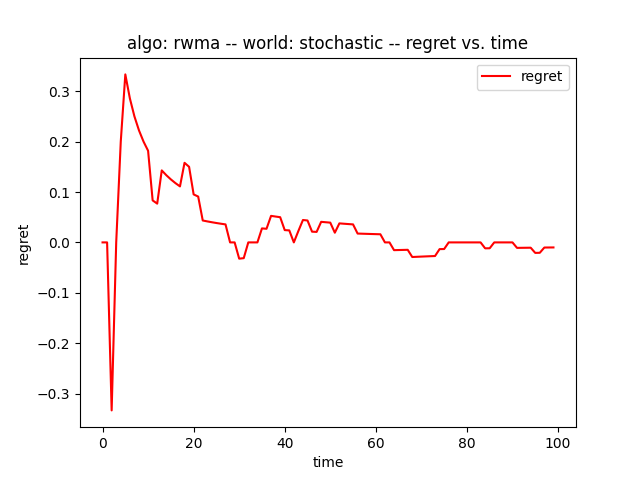
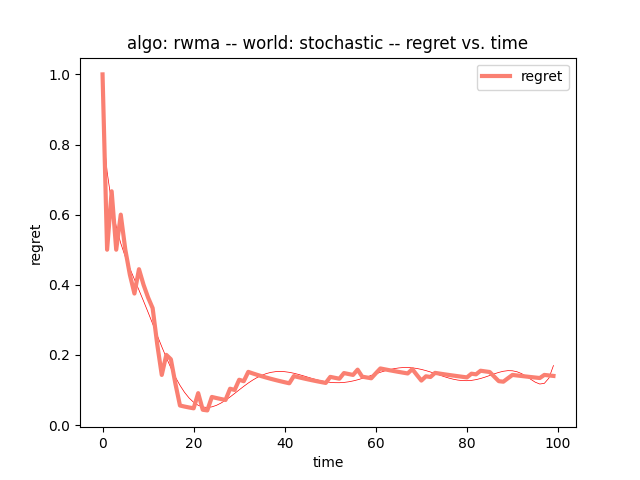
doc: 3.3

diff --git a/hw1/wma.py b/hw1/wma.py
@@ -1,12 +1,13 @@
 # ------------------------------------------------------------------------------
 # @file: wma.py
 # @date: Feb 17, 2021
+# @author: Ingrid Navarro
+#
 # @brief: Implementation of the Weighted Majority Algorithm
-# @author: ingridn
 # ------------------------------------------------------------------------------
 import numpy as np
 
-from world import (
+from environment import (
     Prediction,
     StochasticWorld,
     OddLoseExpert,
@@ -19,11 +20,12 @@ np.set_printoptions(4)
 class WeightedMajorityAlgorithm(object):
 
     def __init__(self, H, world, T: int = 10, eta: float = 0.5):
-        """
-        H: hypothesis class
-        world: environment that provides the true labels
-        T: time steps to run the algorithm
-        eta: penalty parameter
+        """ Initializes the WMA.
+        Args
+            H: hypothesis class
+            world: environment that provides the true labels
+            T: time steps to run the algorithm
+            eta: penalty parameter
         """
         self._H = H
         self._num_experts = len(H)
@@ -33,39 +35,36 @@ class WeightedMajorityAlgorithm(object):
         self.build()
 
     def build(self) -> None:
-        """ 
-        Initializes variables
-        """
+        """ Initializes variables """
         self._weights = np.ones(shape=(self._num_experts), dtype=np.float32)
         self._x = np.zeros(shape=(self._num_experts), dtype=np.int)
-        self._learner_loss = np.zeros(shape=(self._T, 1), dtype=np.float32)
         self._regret = np.zeros(shape=(self._T, 1), dtype=np.float32)
+        self._learner_loss = np.zeros(shape=(self._T, 1), dtype=np.float32)
         self._experts_loss = np.zeros(
             shape=(self._T, self._num_experts), dtype=np.float32)
 
     def receive_advice(self, num_step: int) -> None:
-        """
-        Receives the advice from all the experts
+        """ Receives the advice from all the experts
+        Args
+            num_step: current time step.
         """
         for n in range(self._num_experts):
             self._x[n] = self._H[n].give_advice(num_step)
 
     def receive_label(self) -> int:
-        """
-        Receives true label from the world
-        """
-        # note: if using stochastic, the expert advice is not used by the world
-        return self._world.give_label(self._x)
+        """ Receives true label from the world. """
+        # note: if using stochastic, neither the expert advice nor the weights
+        # are used by the world.
+        return self._world.give_label(self._x, self._weights)
 
-    def pred_function(self, value: float) -> int:
+    def pred_function(self) -> int:
+        """ Prediction rule. In the case of the Weighted Majority algorithm it 
+        is based on the sign(x dot weights). 
         """
-        Prediction rule. In the case of the Weighted Majority algorithm it 
-        computes the sign. 
-        """
+        value = np.dot(self._x, self._weights)
         if value >= 0.0:
             return Prediction.WIN.value
-        else:
-            return Prediction.LOSE.value
+        return Prediction.LOSE.value
 
     def compute_regret(self, t: int) -> None:
         """
@@ -77,45 +76,36 @@ class WeightedMajorityAlgorithm(object):
             self._experts_loss[t:, n] += float(not self._x[n] == self._y_true)
         # self._experts_loss[t:] += np.where(not self._x == self._y_true, self._x, self._y_true)
 
-        self._regret[t] = (self._learner_loss[t] - np.amin(self._experts_loss[t]))/(t+1)
+        self._regret[t] = (self._learner_loss[t] -
+                           np.amin(self._experts_loss[t]))/(t+1)
 
     def run(self):
-        """
-        Runs the algorithm for T time steps. 
-        """
+        """ Runs the algorithm for T time steps. """
         print(f"\tInitial weights: {self._weights}")
         print(f"\tWorld: {self._world.get_name()}")
         for t in range(0, self._T):
             self.receive_advice(t)
-            value = np.dot(self._x, self._weights)
-            self._y_pred = self.pred_function(value)
+            self._y_pred = self.pred_function()
             self._y_true = self.receive_label()
             incorrect_advice = (self._y_true != self._x).astype(int)
             self._weights = self._weights * (1 - self._eta * incorrect_advice)
             self.compute_regret(t)
-
-            if t % 10 == 0:
+                        
+            if t % 5 == 0:
                 print("\t[{}/{}]\n\t\tadvice: {}, y_pred: {}, y_true: {}".format(
                     t, self._T, self._x, self._y_pred, self._y_true))
+                print(f"\t\tincorrect advice: {incorrect_advice}")
                 print(f"\t\tweights: {self._weights}")
                 print(f"\t\tlearner_loss: {self._learner_loss[t]}")
                 print(f"\t\texperts_loss: {self._experts_loss[t]}")
                 print(f"\t\tregret: {self._regret[t]}")
 
+    # Member getters
     def get_learners_loss(self) -> np.array:
-        """
-        Getter function for the learner loss.
-        """
         return self._learner_loss
 
     def get_experts_loss(self) -> np.array:
-        """
-        Getter function for the experts loss.
-        """
         return self._experts_loss
 
     def get_regret(self) -> np.array:
-        """
-        Getter function for the regret
-        """
         return self._regret

diff --git a/hw1/run.py b/hw1/run.py
@@ -1,27 +1,37 @@
 import matplotlib.pyplot as plt
 import numpy as np
+import os
 
 from wma import WeightedMajorityAlgorithm
 from rwma import RandomizedWeightedMajorityAlgorithm
 
-from world import (
+from environment import (
     StochasticWorld, DeterministicWorld, AdversarialWorld,
     OddLoseExpert, OptimisticExpert, NegativeExpert
 )
 
 SUPPORTED_WORLDS = ["stochastic", "deterministic", "adversarial"]
 SUPPORTED_ALGORITHMS = ["wma", "rwma"]
-
+if not os.path.exists("out"):
+    os.makedirs("out")
 
 def plot(x, y1, y1_label, y2=None, y2_label=None, 
          out_file="out.png", title = 'plot', x_axis = 'x', y_axis = 'y'):
-    colors = ['red', 'green', 'blue', 'cyan']
-    
+    colors  = ['salmon', 'limegreen', 'royalblue', 'mediumpurple']
+    icolors = ['red', 'green', 'blue', 'purple']
+
     for n in range(len(y1[1])):
-        plt.plot(x, y1[:, n], color=colors[n], label=y1_label[n])
+        # interpolate to smooth out
+        poly = np.polyfit(x, y1[:, n], 10)
+        poly_y = np.poly1d(poly)(x)
+        plt.plot(x, poly_y, color=icolors[n], linewidth=0.5)
+        plt.plot(x, y1[:, n], color=colors[n], label=y1_label[n], linewidth=3)
     
     if not y2 is None:
         for n in range(len(y2[1])):
+            poly = np.polyfit(x, y2[:, n], 10)
+            poly_y = np.poly1d(poly)(x)
+            plt.plot(x, poly_y, color=icolors[-1+n], linewidth=0.5)
             plt.plot(x, y2[:, n], color=colors[-1+n], label=y2_label[n])
     
     plt.xlabel(x_axis)
@@ -32,7 +42,7 @@ def plot(x, y1, y1_label, y2=None, y2_label=None,
     plt.savefig(out_file)
     print(f"Saved to file {out_file}")
     plt.show()
-    
+    plt.close()
     
 def run(args):
     # Hypothesis
@@ -48,18 +58,19 @@ def run(args):
         print("*"*5, f"expert: {h.get_name()}")
     
     if args.world == "stochastic":
-        world = StochasticWorld(args.world, labels=[-1, 1])
+        world = StochasticWorld(args.world)
     elif args.world == "deterministic":
         world = DeterministicWorld(args.world)
+        world.set_counter()
     elif args.world == "adversarial":
-        world = AdversarialWorld(args.world, strategy=args.algo)
+        world = AdversarialWorld(args.world)
+        world.set_strategy(args.algo)
     
     if args.algo == "wma":
         algo = WeightedMajorityAlgorithm(H, world, args.T, args.eta)
     else:
         algo = RandomizedWeightedMajorityAlgorithm(H, world, args.T, args.eta)
     print(f"Initialized algorithm: {args.algo}")
-    
     
     print(f"Start...")
     algo.run()
@@ -97,7 +108,7 @@ if __name__ == "__main__":
                         help='algorithm: [wma, rwma]')
     parser.add_argument('--T', type=int, default=100, 
                         help='time steps')
-    parser.add_argument('--eta', type=float, default=0.1, 
+    parser.add_argument('--eta', type=float, default=0.5, 
                         help='penalty value')
     parser.add_argument('--plot', action='store_true')
     args = parser.parse_args()

diff --git a/hw1/rwma.py b/hw1/rwma.py
@@ -1,12 +1,13 @@
 # ------------------------------------------------------------------------------
 # @file: rwma.py
 # @date: Feb 17, 2021
-# @brief: Implementation of the Randomized Weighted Majority Algorithm
 # @author: ingridn
+#
+# @brief: Implementation of the Randomized Weighted Majority Algorithm
 # ------------------------------------------------------------------------------
 import numpy as np
 
-from world import (
+from environment import (
     Prediction,
     StochasticWorld,
     OddLoseExpert,
@@ -19,29 +20,26 @@ np.set_printoptions(4)
 
 
 class RandomizedWeightedMajorityAlgorithm(WeightedMajorityAlgorithm):
-    """
-    Since the class is similar to WMA it inherits from the class to avoid 
+    """ Since the class is similar to WMA it inherits from the class to avoid 
     repeating code.
     """
-    def pred_function(self, value: float = None) -> int:
-        """
-        Prediction rule. In the case of the Randomized Weighted Majority 
-        Algorithm it computes a multinomial. 
+    def pred_function(self) -> int:
+        """ Prediction rule. In the case of the Randomized Weighted Majority 
+        Algorithm it randomly predicts based on a multinomial distribution over
+        the weights at the current time step. 
         """
         w = self._weights / np.sum(self._weights)
         expert = np.random.multinomial(1, w)
         return self._x[np.where(expert == 1)]
         
     def run(self):
-        """
-        Runs the algorithm for T time steps. 
-        """
+        """ Runs the algorithm for T time steps. """
         print(f"\tInitial weights: {self._weights}")
         print(f"\tWorld: {self._world.get_name()}")
         for t in range(0, self._T):
-            self.receive_advice(t)
+            self.receive_advice(t) # same as WMA
             self._y_pred = self.pred_function()
-            self._y_true = self.receive_label()
+            self._y_true = self.receive_label() # same as WMA
             incorrect_advice = (self._y_true != self._x).astype(int)
             self._weights = self._weights * (1 - self._eta * incorrect_advice)
             self.compute_regret(t)

diff --git a/hw1/environment.py b/hw1/environment.py
@@ -126,11 +126,19 @@ class DeterministicWorld(World):
                    expert_weights: np.array = None
         ) -> int:
         """ Uses a deterministic rule to produce a label. """
-        return self.rule_opposite(expert_advice)
-
+        return self.rule_counter(expert_advice)
+    
+    def rule_counter(self, expert_advice):
+        label = -1 if self._counter % 4 == 0 else 1
+        self._counter += 1
+        return label
+    
     def rule_opposite(self, expert_advice):
         """ Produces opposite label to that produced by the OddLose expert. """
-        return -1 if expert_advice[-1] == 1 else -1
+        return -1 if expert_advice[-1] == 1 else 1
+    
+    def set_counter(self):
+        self._counter = 0
 
 
 class AdversarialWorld(World):
@@ -155,9 +163,9 @@ class AdversarialWorld(World):
         elif self._strategy == "rwma":
             # w = counts / np.sum(counts)
             # choice = np.random.multinomial(1, w)
-            choice = np.random.multinomial(1, expert_weights)
-            index = np.where(choice == 1)[0][0]
-            return self._labels[index]
+            w = expert_weights / np.sum(expert_weights)
+            index = np.argmin(w)
+            return expert_advice[index]
 
     # Member setters
     def set_strategy(self, strategy: str):
